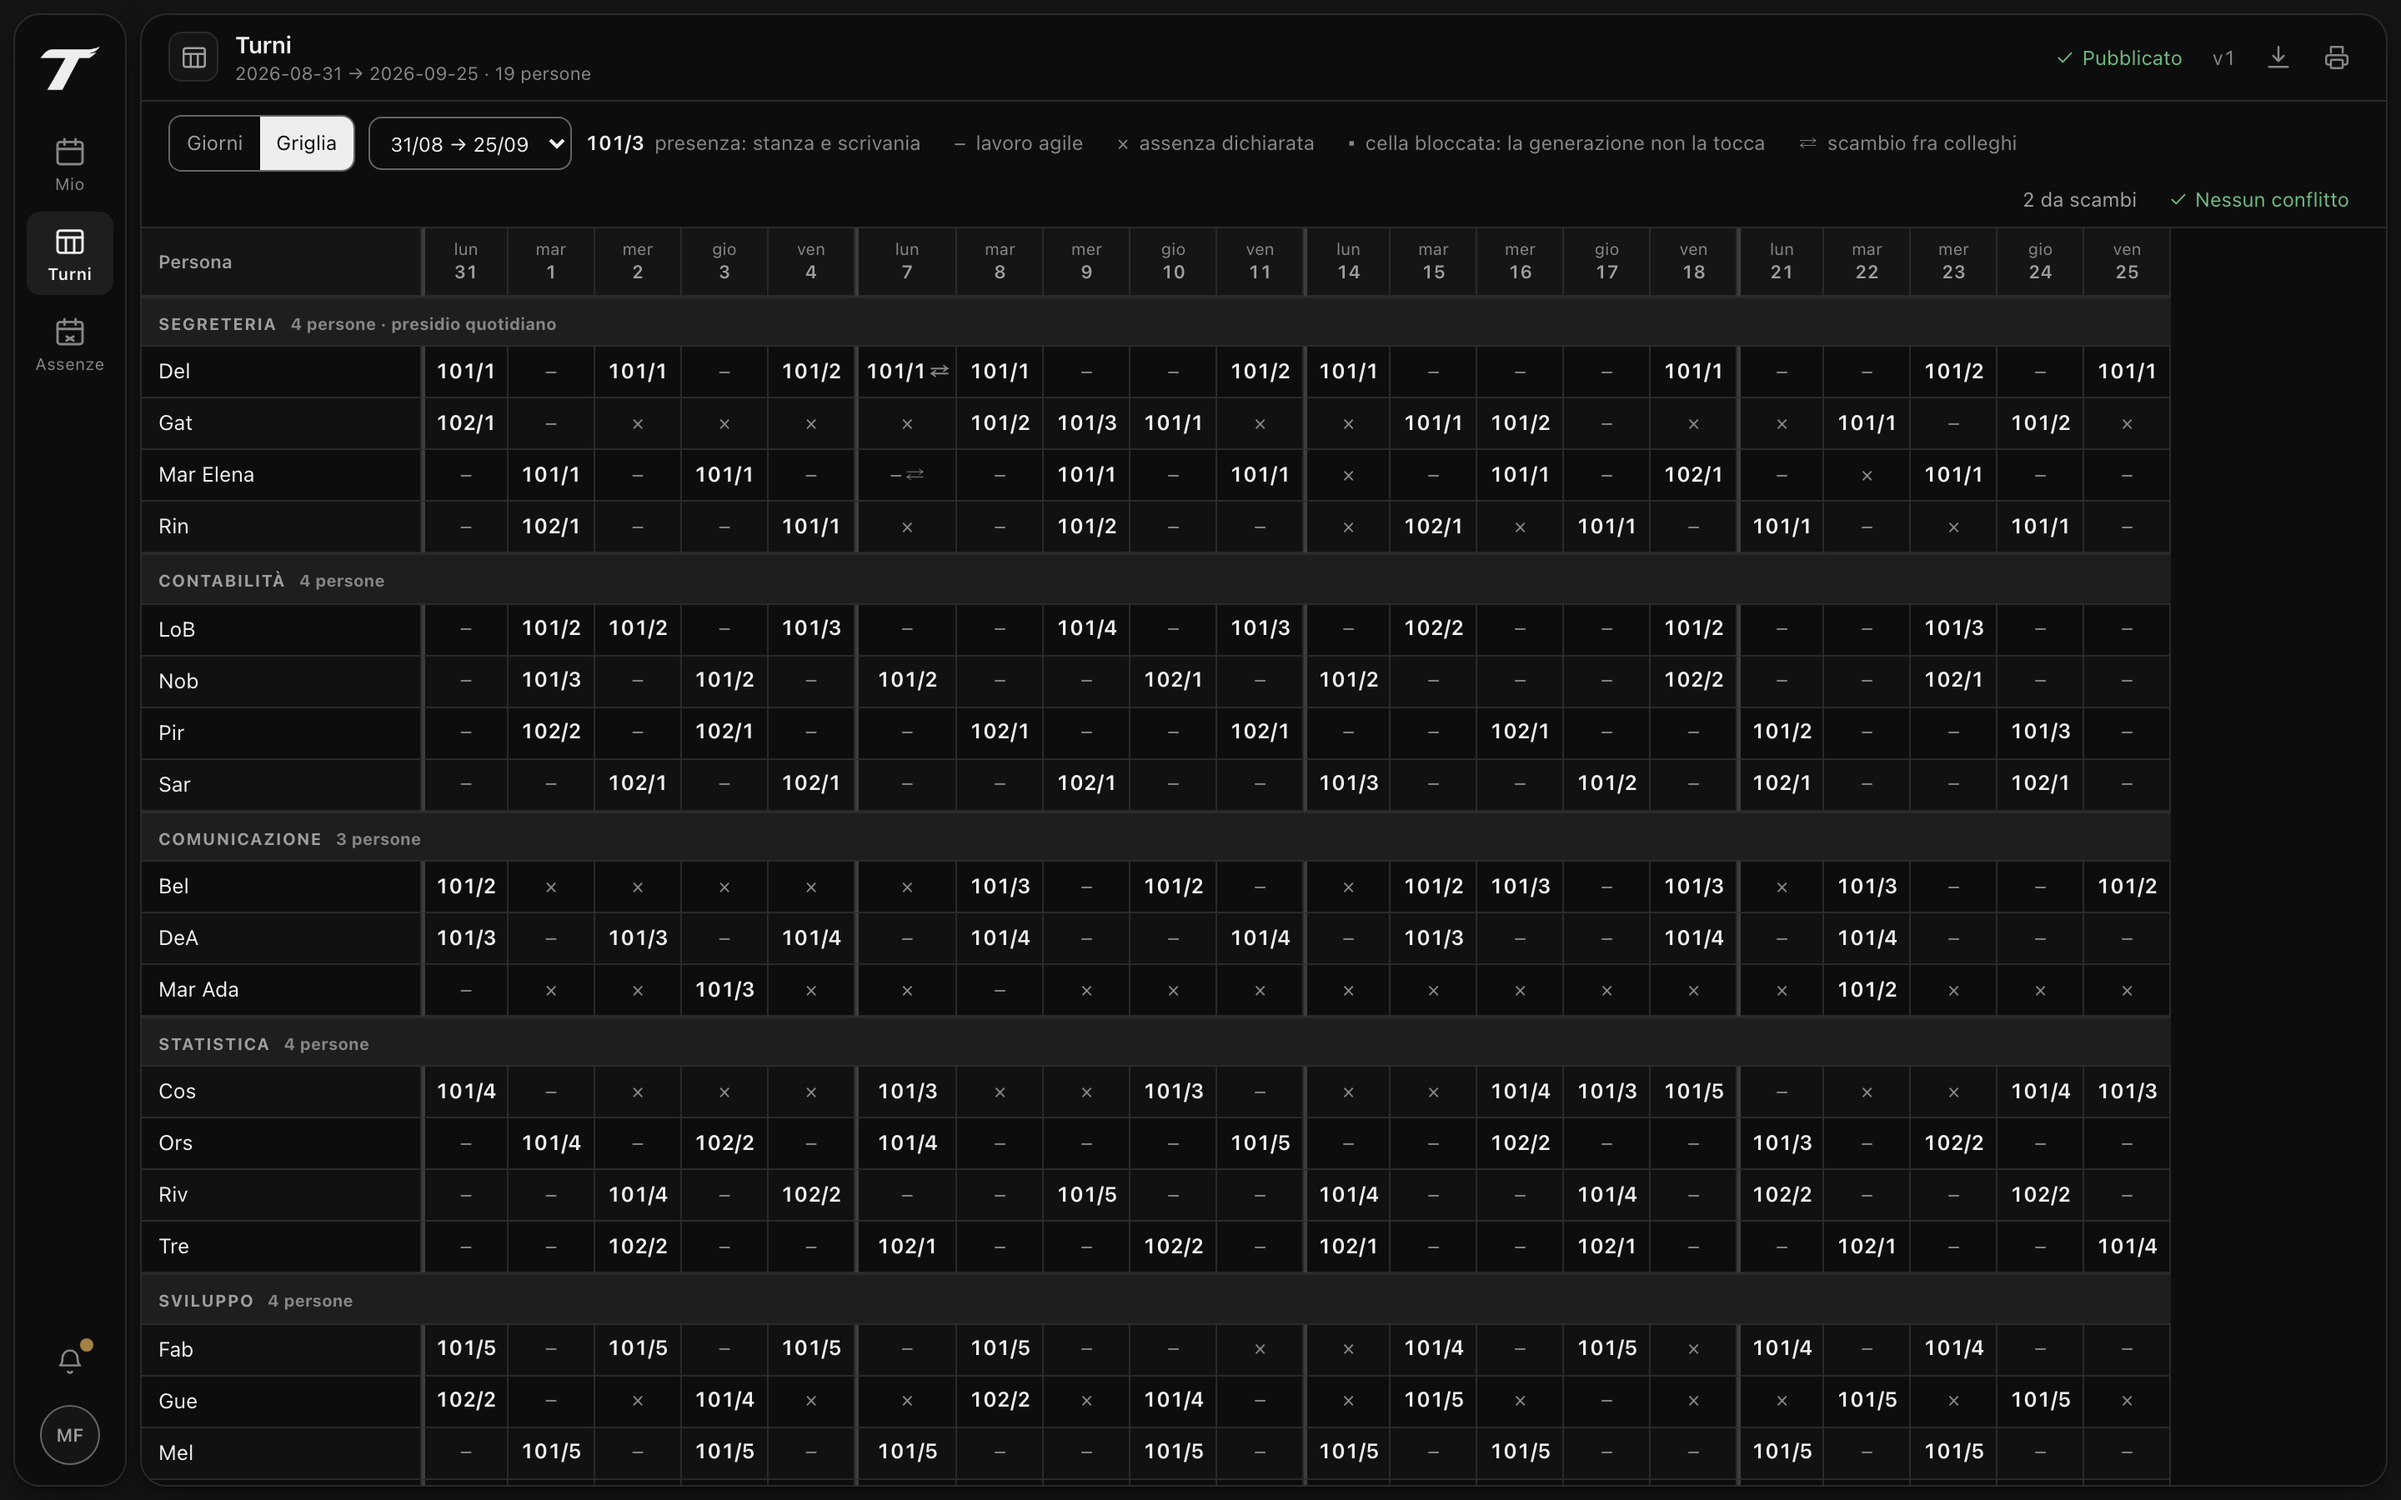
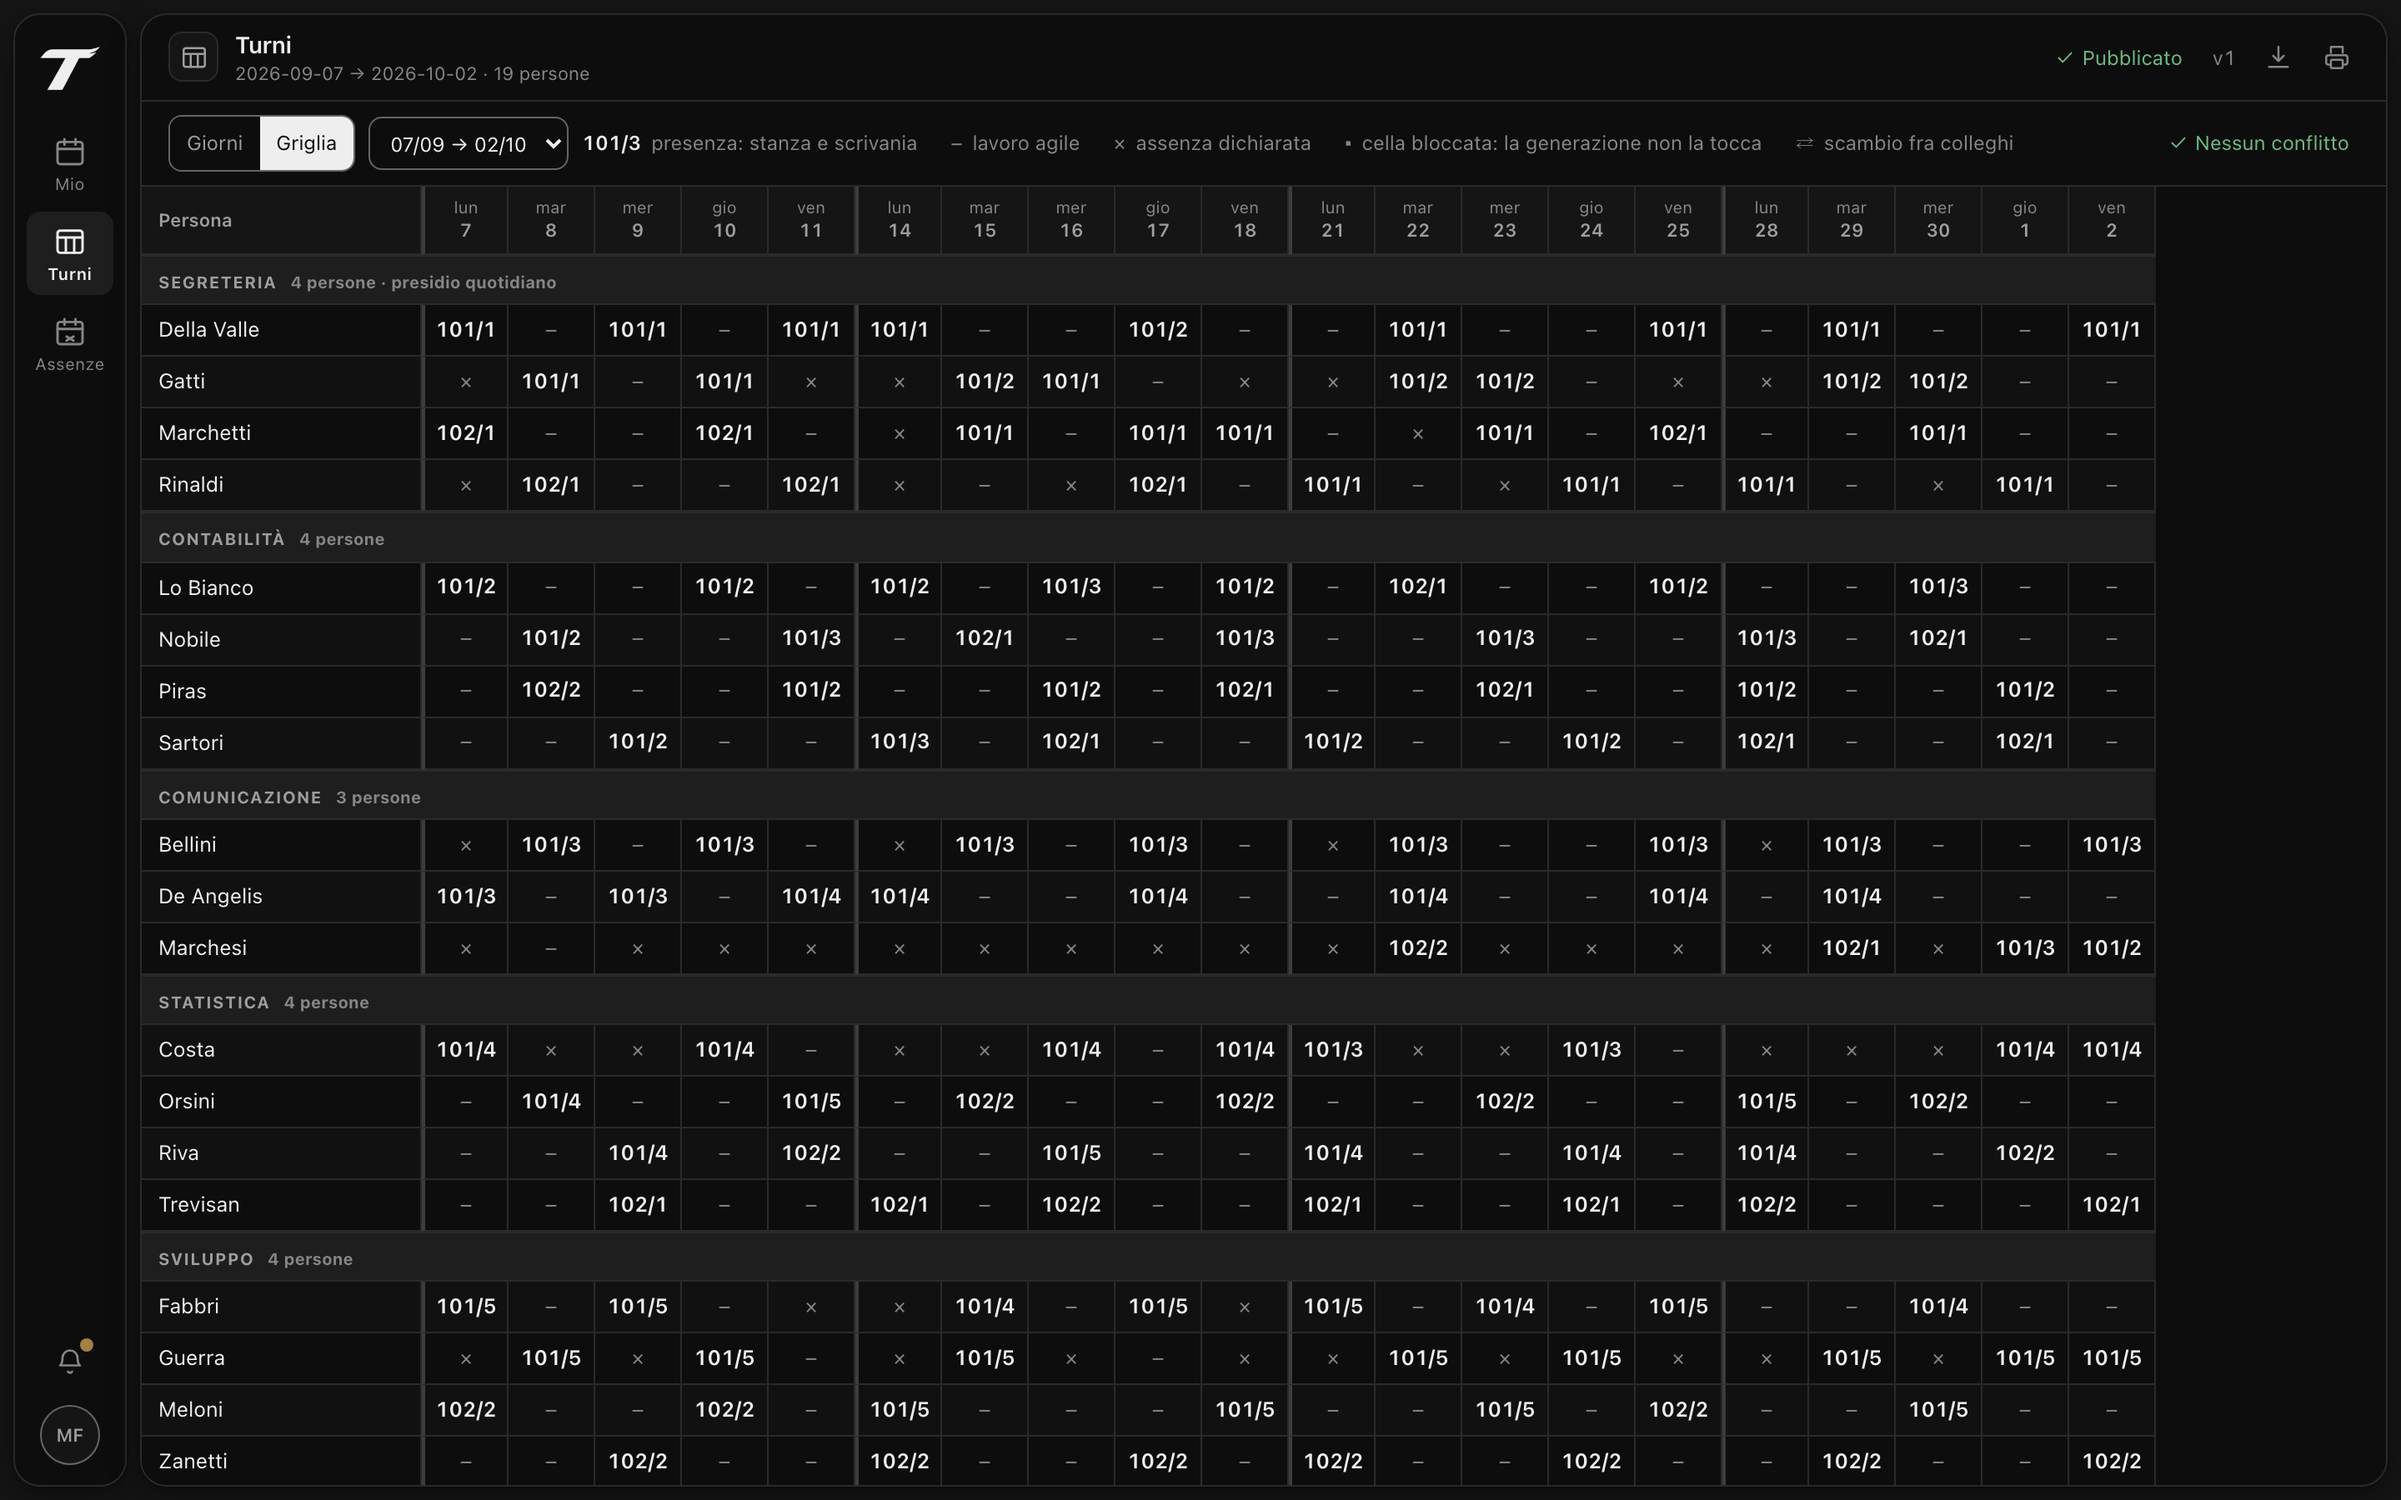
fix: le stanze del popolamento di prova stanno sull'unità che programma
Da quando ogni unità ha le proprie stanze, il periodo cerca la capienza
fra quelle della sua unità. Il popolamento le creava sulla radice mentre
persone e settori stavano nell'unità figlia: generare un periodo
rispondeva «Nessuna stanza con scrivanie attive».

Rifatte anche le schermate del README, che mostravano ancora i cognomi
troncati a tre lettere.

diff --git a/server/src/seed/run.ts b/server/src/seed/run.ts
@@ -112,10 +112,11 @@ async function main() {
     ruolo: 'dirigente', unitId: figliaId,
   })
 
-  // Le stanze appartengono all'unità radice.
+  // Le stanze stanno sull'unità che le usa, che è la stessa che programma:
+  // un periodo cerca la capienza fra le stanze della propria unità.
   for (const s of dati.stanze) {
     const [r] = await db.insert(schema.room)
-      .values({ unitId: radiceId, etichetta: s.etichetta, piano: s.piano })
+      .values({ unitId: figliaId, etichetta: s.etichetta, piano: s.piano })
     await db.insert(schema.desk).values(
       Array.from({ length: s.scrivanie }, (_, i) => ({
         roomId: r.insertId, numero: String(i + 1), x: 40 + i * 120, y: 60,
@@ -162,8 +163,8 @@ async function main() {
   console.log(`
 Popolamento di prova completato.
 
-  Unità radice      ${dati.radice.nome} (${dati.radice.sigla}) — stanze e scrivanie
-  Unità figlia      ${dati.figlia.nome} (${dati.figlia.sigla})
+  Unità radice      ${dati.radice.nome} (${dati.radice.sigla})
+  Unità figlia      ${dati.figlia.nome} (${dati.figlia.sigla}) — stanze, settori, persone
   Settori           ${nomiSettori.join(', ')}
   Dipendenti        ${dipendenti.length}
   Assenze caricate  ${assenze.length}
